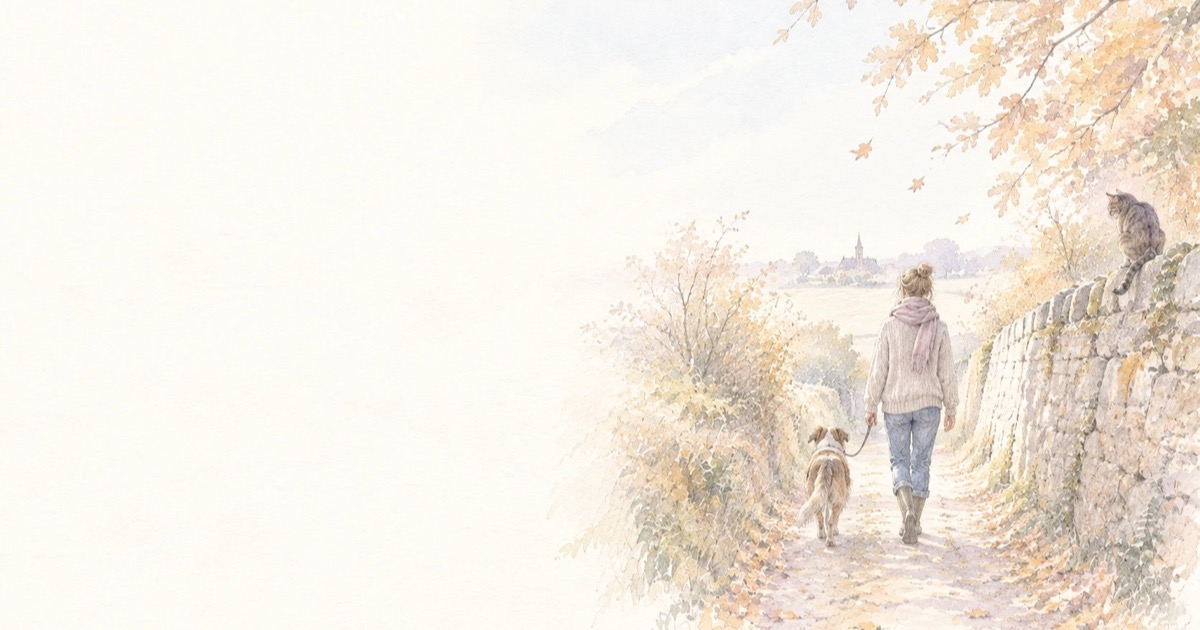
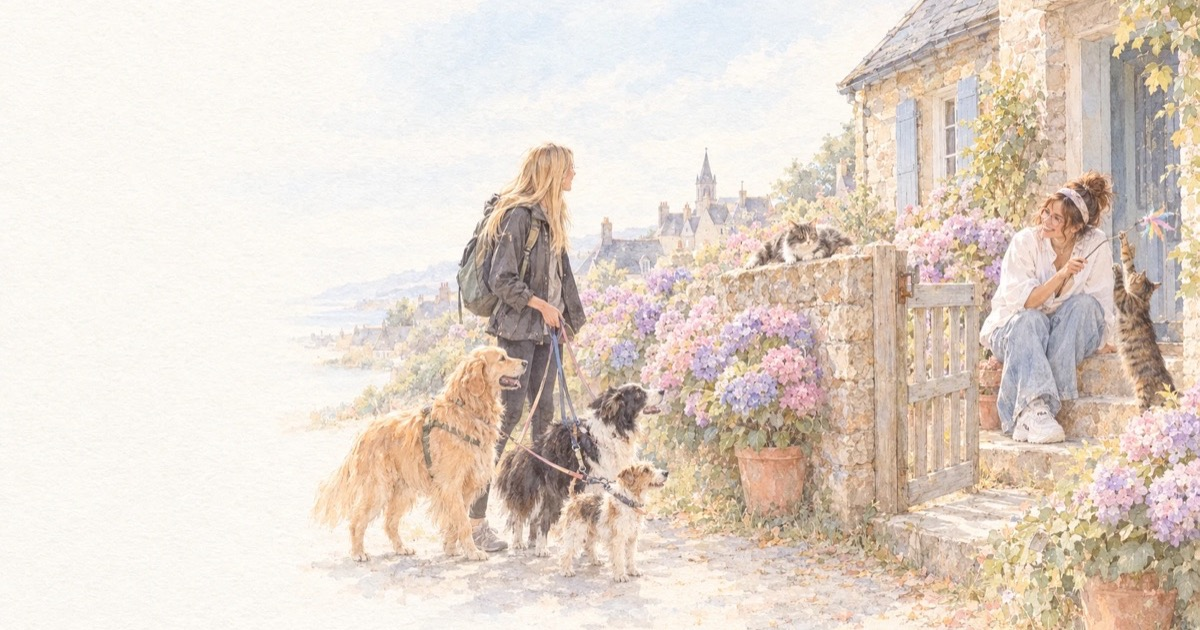
nouvelle image d'accueil

diff --git a/index.html b/index.html
@@ -25,8 +25,8 @@
 <meta property="og:title" content="Le Syndicat des Gratouilles, les pros de confiance pour vos animaux">
 <meta property="og:description" content="Annuaire gratuit de professionnels de l'animal de confiance en pays de Vitré, de Châteaugiron et de Janzé : cat sitting, pet sitting, pension canine familiale.">
 <meta property="og:url" content="https://syndicat-des-gratouilles.fr/">
-<meta property="og:image" content="https://syndicat-des-gratouilles.fr/assets/img/og-image.jpg">
-<meta property="og:image:secure_url" content="https://syndicat-des-gratouilles.fr/assets/img/og-image.jpg">
+<meta property="og:image" content="https://syndicat-des-gratouilles.fr/assets/img/og-image.jpg?v=2">
+<meta property="og:image:secure_url" content="https://syndicat-des-gratouilles.fr/assets/img/og-image.jpg?v=2">
 <meta property="og:image:type" content="image/jpeg">
 <meta property="og:image:width" content="1200">
 <meta property="og:image:height" content="630">
@@ -36,7 +36,7 @@
 <meta name="twitter:card" content="summary_large_image">
 <meta name="twitter:title" content="Le Syndicat des Gratouilles, les pros de confiance pour vos animaux">
 <meta name="twitter:description" content="Annuaire gratuit de professionnels de l'animal de confiance en pays de Vitré, de Châteaugiron et de Janzé : cat sitting, pet sitting, pension canine familiale.">
-<meta name="twitter:image" content="https://syndicat-des-gratouilles.fr/assets/img/og-image.jpg">
+<meta name="twitter:image" content="https://syndicat-des-gratouilles.fr/assets/img/og-image.jpg?v=2">
 <meta name="twitter:image:alt" content="Aquarelle : une promeneuse et son chien sur un chemin d'automne, un chat sur un muret.">
 
 <!-- Icônes -->
@@ -46,9 +46,9 @@
 
 <!-- Polices locales, aucune requête vers un service tiers -->
 <link rel="preload" href="assets/fonts/manrope-latin.woff2" as="font" type="font/woff2" crossorigin>
-<link rel="preload" href="assets/img/accueil.webp" as="image" type="image/webp" fetchpriority="high">
+<link rel="preload" as="image" href="assets/img/accueil-collectif.webp" imagesrcset="assets/img/accueil-collectif-900.jpg 900w, assets/img/accueil-collectif-1200.jpg 1200w, assets/img/accueil-collectif.webp 1672w" imagesizes="(max-width:900px) 100vw, (max-width:1440px) 62vw, 893px" fetchpriority="high">
 
-<link rel="stylesheet" href="css/style.css?v=20261015u">
+<link rel="stylesheet" href="css/style.css?v=20261015z">
 
 <script type="application/ld+json">
 {
@@ -241,7 +241,7 @@
 
 <main id="top">
   <section class="hero" aria-labelledby="h1">
-    <img class="hero-img" fetchpriority="high" src="assets/img/accueil.webp" width="1672" height="941" alt="Aquarelle : une femme promène son chien sur un chemin creux d'automne, un chat les observe du haut d'un muret en pierre, un clocher au loin.">
+    <img class="hero-img" fetchpriority="high" src="assets/img/accueil-collectif.webp" srcset="assets/img/accueil-collectif-900.jpg 900w, assets/img/accueil-collectif-1200.jpg 1200w, assets/img/accueil-collectif.webp 1672w" sizes="(max-width:900px) 100vw, (max-width:1440px) 62vw, 893px" width="1672" height="940" alt="Aquarelle : devant une maison de pierre fleurie d'hortensias, une promeneuse s'arrête avec trois chiens et salue une cat-sitter assise sur le perron, qui joue avec un chat tigré ; un autre chat est allongé sur le muret.">
     <div class="hero-copy"><div class="in"><div class="box">
       <h1 id="h1" class="wordmark"><svg class="lavis" data-saison viewBox="0 0 1000 420" preserveAspectRatio="none" aria-hidden="true" focusable="false"><g filter="url(#lv1)"><ellipse cx="106" cy="214" rx="205" ry="126" transform="rotate(0 106 214)" fill="#D3C7EC"/><ellipse cx="215" cy="231" rx="179" ry="133" transform="rotate(-9 215 231)" fill="#C2DAEC"/><ellipse cx="354" cy="181" rx="199" ry="136" transform="rotate(-14 354 181)" fill="#E9D4EE"/><ellipse cx="537" cy="221" rx="187" ry="112" transform="rotate(-15 537 221)" fill="#C9DAF2"/><ellipse cx="595" cy="177" rx="203" ry="132" transform="rotate(8 595 177)" fill="#DCCBEF"/><ellipse cx="755" cy="234" rx="181" ry="134" transform="rotate(-0 755 234)" fill="#F1CADF"/><ellipse cx="857" cy="221" rx="174" ry="130" transform="rotate(13 857 221)" fill="#D3C7EC"/></g></svg><span class="w1">Le Syndicat</span> <span class="w2">des <span class="gr">Gratouilles</span></span></h1>
       <p class="promise">Les pros de confiance pour vos animaux, près de chez vous.</p>

diff --git a/css/style.css b/css/style.css
@@ -63,11 +63,16 @@ section[id],[id^="pro-"],.presskit{scroll-margin-top:84px;}
 
 /* ---------- Accueil ---------- */
 .hero{position:relative;max-width:1440px;margin:0 auto;}
-.hero-img{width:100%;height:auto;aspect-ratio:1672/941;object-fit:cover;-webkit-mask-image:linear-gradient(to bottom,#000 82%,transparent);mask-image:linear-gradient(to bottom,#000 82%,transparent);}
+.hero-img{width:100%;height:auto;aspect-ratio:1672/940;object-fit:cover;-webkit-mask-image:linear-gradient(to bottom,#000 82%,transparent);mask-image:linear-gradient(to bottom,#000 82%,transparent);}
 .hero-copy{position:absolute;inset:0;display:flex;align-items:flex-start;padding-top:clamp(24px,4vw,64px);}
 .hero-copy .in{width:100%;}
 .hero-copy .box{max-width:min(980px,70%);}
-.wordmark{font-size:clamp(3rem,7.2vw,7.4rem);font-weight:800;letter-spacing:-.055em;line-height:.92;margin:0;}
+@media (min-width:901px){
+  .hero{min-height:calc(min(100vw,1440px) * .62 * 940 / 1672);}
+  .hero-img{position:absolute;top:0;right:0;width:62%;-webkit-mask-image:linear-gradient(to right,transparent,#000 22%),linear-gradient(to bottom,#000 80%,transparent);-webkit-mask-composite:source-in;mask-image:linear-gradient(to right,transparent,#000 22%),linear-gradient(to bottom,#000 80%,transparent);mask-composite:intersect;}
+  .hero-copy{position:relative;inset:auto;padding-bottom:clamp(24px,3vw,48px);}
+}
+.wordmark{font-size:clamp(3rem,7.2vw,6.5rem);font-weight:800;letter-spacing:-.055em;line-height:.92;margin:0;}
 .wordmark .w1,.wordmark .w2{display:block;}
 .gr{position:relative;display:inline-block;z-index:0;}
 .hero .promise{font-size:clamp(1.3rem,2vw,1.75rem);font-weight:700;letter-spacing:-.025em;line-height:1.25;margin-top:clamp(20px,2.4vw,32px);max-width:26ch;}
@@ -302,7 +307,7 @@ blockquote{font-family:"Newsreader",Georgia,"Times New Roman",serif;font-style:i
   .hero-copy{position:static;padding-top:0;}
   .hero-copy .box{max-width:none;padding-block:8px;}
   .wordmark{font-size:11vw;}
-  .hero-img{-webkit-mask-image:linear-gradient(to bottom,transparent,#000 14%,#000 84%,transparent);mask-image:linear-gradient(to bottom,transparent,#000 14%,#000 84%,transparent);aspect-ratio:4/3;object-position:82% 50%;}
+  .hero-img{-webkit-mask-image:linear-gradient(to bottom,transparent,#000 14%,#000 84%,transparent);mask-image:linear-gradient(to bottom,transparent,#000 14%,#000 84%,transparent);aspect-ratio:4/3;object-position:100% 50%;}
   .hero{display:flex;flex-direction:column-reverse;}
   .head,.join .top,.pod{grid-template-columns:1fr;}
   .head{margin-bottom:40px;}

diff --git a/faq.html b/faq.html
@@ -12,10 +12,10 @@
 <meta property="og:site_name" content="Le Syndicat des Gratouilles">
 <meta property="og:title" content="Questions fréquentes | Le Syndicat des Gratouilles">
 <meta property="og:url" content="https://syndicat-des-gratouilles.fr/faq.html">
-<meta property="og:image" content="https://syndicat-des-gratouilles.fr/assets/img/og-image.jpg">
+<meta property="og:image" content="https://syndicat-des-gratouilles.fr/assets/img/og-image.jpg?v=2">
 <link rel="icon" href="favicon.svg?v=2" type="image/svg+xml">
 <link rel="preload" href="assets/fonts/manrope-latin.woff2" as="font" type="font/woff2" crossorigin>
-<link rel="stylesheet" href="css/style.css?v=20261015u">
+<link rel="stylesheet" href="css/style.css?v=20261015z">
 <style>
   .fq-head .in{display:flex;align-items:center;justify-content:space-between;gap:24px;padding-block:18px;}
   .fq-back{font-weight:600;font-size:15px;color:var(--graphite);text-decoration:none;white-space:nowrap;}

diff --git a/404.html b/404.html
@@ -8,7 +8,7 @@
 <meta name="theme-color" content="#FDFCF5">
 <link rel="icon" href="/favicon.svg?v=2" type="image/svg+xml">
 <link rel="preload" href="/assets/fonts/manrope-latin.woff2" as="font" type="font/woff2" crossorigin>
-<link rel="stylesheet" href="/css/style.css?v=20261015u">
+<link rel="stylesheet" href="/css/style.css?v=20261015z">
 <style>
   /* Page 404 : même papier, même police, l'aquarelle du chat qui guette en vedette. */
   .nf-head .in{display:flex;align-items:center;justify-content:space-between;gap:24px;padding-block:18px;}
